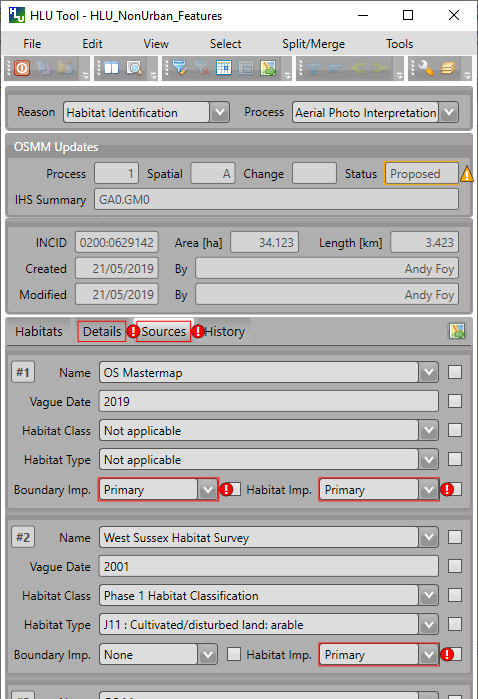
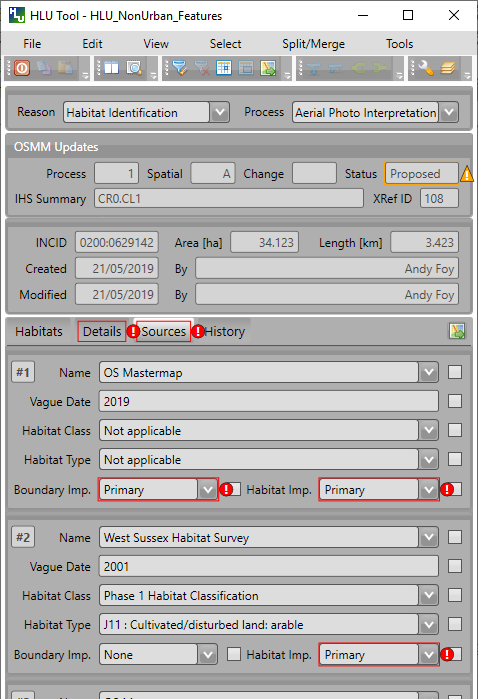
Updates for v3.1.3

Changed region(s): [[0.205, 0.2704, 0.9665, 0.3004], [0.0293, 0.2704, 0.1757, 0.3004]]

diff --git a/conf.py b/conf.py
@@ -50,7 +50,7 @@ master_doc = 'index'
 
 # General information about the project.
 project = u'HLU Tool User Guide'
-copyright = u'2011 HBIC, 2013-14, 2016 TVERC, 2014-15 SxBRC, 2019 LaSER'
+copyright = u'2011 HBIC, 2013-14, 2016 TVERC, 2014-15 SxBRC, 2019 LaSER, 2019-20 GiGL'
 
 # The version info for the project you're documenting, acts as replacement for
 # |version| and |release|, also used in various other places throughout the
@@ -59,7 +59,7 @@ copyright = u'2011 HBIC, 2013-14, 2016 TVERC, 2014-15 SxBRC, 2019 LaSER'
 # The short X.Y version.
 version = '3.1'
 # The full version, including alpha/beta/rc tags.
-release = '3.1.2'
+release = '3.1.3'
 
 # The language for content autogenerated by Sphinx. Refer to documentation
 # for a list of supported languages.

diff --git a/interface/interface.rst b/interface/interface.rst
@@ -85,12 +85,18 @@ The 'Reason/Process' section contains the 'Reason' and 'Process' fields as shown
 	Main Window - Reason/Process Section
 
 
+Reason
+	The underlying explanation for the change in habitat or land use. It may be as a result of known changes in the habitat (such as habitat restoration), because new information indicates the existing data is wrong or because there has been a change but the underlying the cause is unknown.
+
+Process
+	The activity being undertaken that has lead to applying this change to the spatial or attribute data of the current INCID. It may relate to a specific project, an ongoing process or an adhoc update.
+
 .. _osmm_update_section:
 
 OSMM Updates Section
 --------------------
 
-The 'OSMM Updates' section displays summary information of any proposed or pending OSMM updates for each INCID in the database, including the update process flag, spatial flag, change flag, status and proposed new IHS Summary as shown in the figure :ref:`figUIOUS`.  See :ref:`review_osmm_window` for more details.
+The 'OSMM Updates' section displays summary information of any proposed or pending OSMM updates for each INCID in the database, including the update process flag, spatial flag, change flag, status and proposed new IHS Summary as shown in the figure :ref:`figUIOUS`.
 
 .. note::
 	If/when the OSMM Update section appears can be configured in the user options. For details see :ref:`options_interface`.
@@ -102,6 +108,9 @@ The 'OSMM Updates' section displays summary information of any proposed or pendi
 	:scale: 85
 
 	Main Window - OSMM Updates Section
+
+
+For a description of the fields see :ref:`review_osmm_section`.
 
 
 .. raw:: latex
@@ -122,6 +131,23 @@ The 'INCID' section displays summary information for each INCID in the database,
 	:scale: 85
 
 	Main Window - INCID Section
+
+
+INCID
+	The unique reference for the current record.
+
+Area
+	The total area of all the selected features for the current INCID.
+
+Length
+	The total perimeter length of all the selected features for the current INCID.
+
+Created/By
+	The date the current INCID was first created and the name of the user that created it. For most INCIDs this will relate to when the data was first loaded into the framework. For INCIDs that have been created as a result of a logical split this relate to when the split was performed.
+
+Modified/By
+	The date the current INCID was last modified and the name of the user that modified it. If the INCID has not been modified this will correspond with when the data was first loaded into the framework.
+
 
 .. tip::
 	The displayed INCID value can be copied to the clipboard by selecting the value and then either right-clicking in the field and selecting **Copy** or pressing :kbd:`Ctrl-C`.
@@ -263,7 +289,7 @@ Habitat Class
 Habitat Type
 	Drop-down list defining the type of habitat. This list is filtered based upon the habitat class.
 
-Boundary Imp
+Boundary Imp.
 	Drop-down list defining the importance of the source data in determining the INCID boundary (in relation to the other sources). Select 'None' if the data source played no part in determining the boundary.
 
 Habitat Imp.
@@ -574,6 +600,8 @@ The main window will transform into the OSMM review updates window when the revi
 	* This function is only available to configured users who have been given bulk update permissions. For details on configuring users see 'Lookup Tables' in the HLU Tool Technical Guide at `readthedocs.org/projects/hlutool-technicalguide <https://readthedocs.org/projects/hlutool-technicalguide/>`_.
 
 
+.. _review_osmm_section:
+
 OSMM Updates Section
 ---------------------
 
@@ -613,7 +641,7 @@ Spatial Flag
 
 
 Change Flag
-	Denoted by an 'X' this indicates when a feature, once the external OSMM Update process is completed, previously overlapped two or more features in the original framework, and hence a portion of the new feature may now be assigned to a different INCID than it was originally.
+	Denoted by an 'X' this indicates when a feature (once the external OSMM Update process is completed) overlaps two or more features in the original framework, and so a portion of the new feature may now be assigned to a different INCID than it was originally. Hence part of the new feature has been changed.
 
 Status
 	Indicates the current status of the proposed OSMM Update, as follows:

diff --git a/glossary/glossary.rst b/glossary/glossary.rst
@@ -62,7 +62,7 @@ Glossary
 		Matrix, Formation, Management and Complex codes (known collectively as 'Multiplex' codes) can be recorded alongside an IHS Habitat code to refine the habitat definition for an INCID.
 
 	OSMM Update
-		Update based on recent OS MasterMap external processing. See :ref:`osmm_update` for more details.
+		An Update based on recent OS MasterMap external processing. See :ref:`osmm_update` for more details.
 
 	Physical Split
 		Creates one or more new TOID fragments in the database based upon a single TOID which has been split in the GIS layer. See :ref:`physical_split` for more details.
@@ -77,10 +77,10 @@ Glossary
 		Habitats identified as requiring action in the UK Biodiversity Action Plan (UK BAP) and continue to be regarded as conservation priorities in the UK Post-2010 Biodiversity Framework.
 
 	Process
-		The activity being undertaken that has lead to applying this change to the spatial or attribute data of the current INCID. It may relate to a specific project, an ongoing process or an adhoc update. See :ref:`reason_section` for more details.
+		The activity being undertaken that has lead to applying this change to the spatial or attribute data of the current INCID. See :ref:`reason_section` for more details.
 
 	Reason
-		The underlying explanation for the change in habitat or land use. It may be as a result of known changes in the habitat (such as habitat restoration), because new information indicates the existing data is wrong or because there has been a change but the underlying the cause is unknown. See :ref:`reason_section` for more details.
+		The underlying explanation for the change in habitat or land use. See :ref:`reason_section` for more details.
 
 	Source
 		A dataset, document or reference used as the source of habitat or land use information. Up to three sources can be defined for each INCID. See :ref:`source_tab` for more details.

diff --git a/functions/functions.rst b/functions/functions.rst
@@ -76,6 +76,11 @@ To update the attributes of an INCID:
 
 	Attribute Update Warning Dialog
 
+
+.. raw:: latex
+
+	\newpage
+
 .. _split:
 
 Split Features
@@ -352,6 +357,10 @@ In the event that the SQL query required to select the features in GIS would be 
 	Clicking the 'Don't ask again' check box in this instance will **not** stop the warning window appearing again in future when performing a temporary join. This warning can only be disabled in the user options (see :ref:`options_filter` for details).
 
 
+.. raw:: latex
+
+	\newpage
+
 .. index::
 	single: Filter; Advanced Query Builder
 
@@ -391,6 +400,11 @@ To **load** a previously saved advanced query:
 * Click :guilabel:`Load`. A load dialog will open prompting you to selected an existing SQL query (*.hsq) file.
 * Select the required file and click :guilabel:`Open`.
 * The query will be loaded into the query window. It can now be verified and then executed.
+
+
+.. raw:: latex
+
+	\newpage
 
 .. index::
 	single: Filter; Filter by Incid
@@ -441,6 +455,11 @@ Users can update the attributes for multiple INCID database records, and associa
 	:scale: 70
 
 	Main window - Bulk Update Mode
+
+
+.. raw:: latex
+
+	\newpage
 
 To bulk apply updates:
 
@@ -504,6 +523,11 @@ To filter proposed OSMM Updates:
 	:scale: 60
 
 	Review OSMM Updates Window
+
+
+.. raw:: latex
+
+	\newpage
 
 To process proposed OSMM Updates:
 
@@ -574,6 +598,11 @@ To filter pending OSMM Updates:
 	:scale: 60
 
 	Bulk OSMM Update Window
+
+
+.. raw:: latex
+
+	\newpage
 
 To bulk apply OSMM updates:
 

diff --git a/appendix/appendix.rst b/appendix/appendix.rst
@@ -11,6 +11,14 @@ Appendix
 Change Log
 ==========
 
+**3.1.3**
+(12th June 2020)
+
+    * :guilabel:`Fixed` Delete existing sources when bulk applying OSMM update (*Fix093*)
+    * :guilabel:`Fixed` Insert new primary BAP habitats when bulk applying OSMM update (*Fix094*)
+    * :guilabel:`Improved` Show OSMM XRef ID in user interface for pending OSMM updates (*Fix095*)
+    * :guilabel:`Improved` Improve performance when applying or rejecting multiple OSMM updates (*Fix095*)
+
 **3.1.2**
 (17th April 2020)
 
@@ -181,6 +189,10 @@ Change Log
     * :guilabel:`Fixed` Error re-selecting features after physical split (in MapInfo) (*Fix029*)
     * :guilabel:`Fixed` Include time in DateTime fields when updating via ODBC connection type (*Fix030*)
 
+
+.. raw:: latex
+
+    \newpage
 
 .. index::
     single: Appendix; Licence
